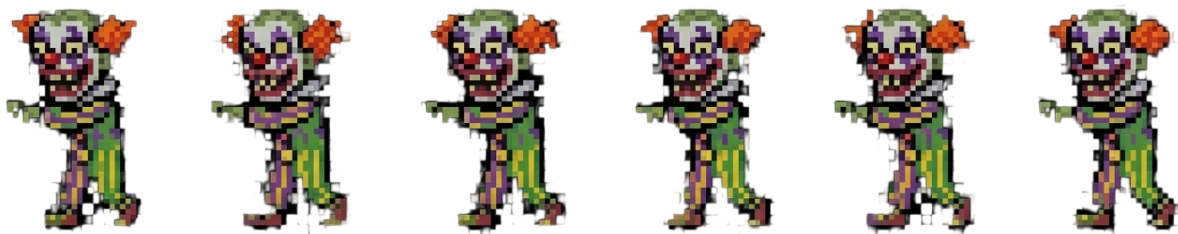
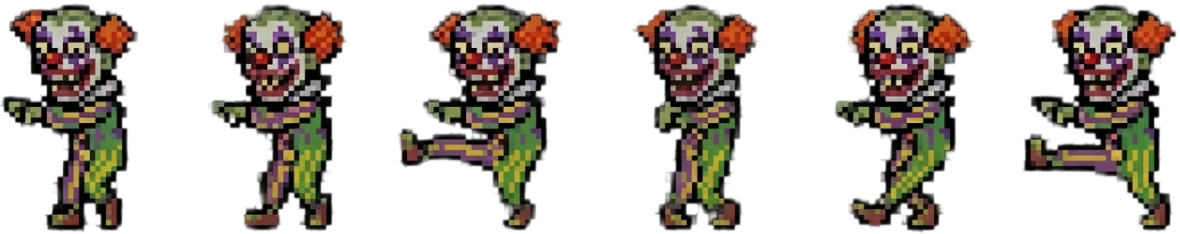
loading

diff --git a/game/index.html b/game/index.html
@@ -26,6 +26,72 @@
         overflow: hidden;
       }
 
+      #loading-screen {
+        position: fixed;
+        inset: 0;
+        z-index: 3000;
+        display: grid;
+        place-items: center;
+        background:
+          linear-gradient(
+            180deg,
+            rgba(8, 12, 22, 0.8) 0%,
+            rgba(10, 16, 27, 0.66) 52%,
+            rgba(7, 10, 18, 0.84) 100%
+          ),
+          url("assets/dashboard/background.jpg") center center / cover no-repeat;
+        opacity: 1;
+        visibility: visible;
+        transition: opacity 0.42s ease, visibility 0.42s ease;
+      }
+
+      #loading-screen.is-hidden {
+        opacity: 0;
+        visibility: hidden;
+        pointer-events: none;
+      }
+
+      .loading-panel {
+        width: min(78vw, 620px);
+        transform: translateY(-5vh);
+        display: grid;
+        justify-items: center;
+        row-gap: clamp(20px, 3.8vh, 36px);
+      }
+
+      .loading-logo {
+        width: clamp(220px, 42vw, 560px);
+        height: auto;
+        image-rendering: pixelated;
+        filter: drop-shadow(0 9px 20px rgba(0, 0, 0, 0.38));
+      }
+
+      .loading-spinner {
+        width: clamp(78px, 11vw, 128px);
+        height: auto;
+        image-rendering: pixelated;
+        animation: loading-spin 3.6s linear infinite;
+        transform-origin: 50% 50%;
+        will-change: transform;
+        filter: drop-shadow(0 6px 16px rgba(0, 0, 0, 0.4));
+      }
+
+      .loading-text {
+        width: clamp(132px, 21vw, 260px);
+        height: auto;
+        image-rendering: pixelated;
+        filter: drop-shadow(0 5px 14px rgba(0, 0, 0, 0.42));
+      }
+
+      @keyframes loading-spin {
+        from {
+          transform: rotate(0deg);
+        }
+        to {
+          transform: rotate(360deg);
+        }
+      }
+
       #game-root {
         border: 0;
         border-radius: 0;
@@ -82,7 +148,77 @@
     </style>
   </head>
   <body>
+    <div id="loading-screen" aria-live="polite" aria-label="Loading game">
+      <div class="loading-panel">
+        <img
+          class="loading-logo"
+          src="./assets/logo/logogame1.png"
+          alt="Army Vs Zombies"
+        />
+        <img
+          class="loading-spinner"
+          src="./assets/object/loading.png"
+          alt="Loading"
+        />
+        <img
+          class="loading-text"
+          src="./assets/object/text_loading.png"
+          alt="Loading Text"
+        />
+      </div>
+    </div>
+
     <div id="game-root"></div>
+
+    <script>
+      (() => {
+        const loadingScreen = document.getElementById("loading-screen");
+        const minVisibleMs = 480;
+        let visibleSince = performance.now();
+        let hideTimerId = null;
+
+        window.showGameLoading = () => {
+          if (!loadingScreen) {
+            return;
+          }
+
+          if (hideTimerId) {
+            window.clearTimeout(hideTimerId);
+            hideTimerId = null;
+          }
+
+          loadingScreen.classList.remove("is-hidden");
+          visibleSince = performance.now();
+        };
+
+        window.hideGameLoading = (force = false) => {
+          if (!loadingScreen) {
+            return;
+          }
+
+          if (hideTimerId) {
+            window.clearTimeout(hideTimerId);
+            hideTimerId = null;
+          }
+
+          const elapsed = performance.now() - visibleSince;
+          const delay = force ? 0 : Math.max(0, minVisibleMs - elapsed);
+
+          hideTimerId = window.setTimeout(() => {
+            loadingScreen.classList.add("is-hidden");
+            hideTimerId = null;
+          }, delay);
+        };
+
+        window.showGameLoading();
+
+        window.setTimeout(() => {
+          if (typeof window.hideGameLoading === "function") {
+            window.hideGameLoading(true);
+          }
+        }, 18000);
+      })();
+    </script>
 
     <script src="https://cdn.jsdelivr.net/npm/phaser@3.90.0/dist/phaser.min.js"></script>
     <script type="module" src="./main.js"></script>

diff --git a/index.html b/index.html
@@ -8,17 +8,96 @@
       type="image/png"
       href="./game/assets/logo/logo_favicon1.png"
     />
-    <title>Redirecting to Game...</title>
-    <meta http-equiv="refresh" content="0; url=./game/" />
+    <title>Army Vs Zombies</title>
+    <style>
+      * {
+        box-sizing: border-box;
+      }
+
+      body {
+        margin: 0;
+        min-height: 100dvh;
+        display: grid;
+        place-items: center;
+        overflow: hidden;
+        background:
+          linear-gradient(
+            180deg,
+            rgba(8, 12, 22, 0.84) 0%,
+            rgba(10, 16, 27, 0.68) 52%,
+            rgba(7, 10, 18, 0.86) 100%
+          ),
+          url("./game/assets/dashboard/background.jpg") center center / cover
+            no-repeat;
+      }
+
+      .loading-panel {
+        width: min(78vw, 620px);
+        transform: translateY(-5vh);
+        display: grid;
+        justify-items: center;
+        row-gap: clamp(20px, 3.8vh, 36px);
+      }
+
+      .loading-logo {
+        width: clamp(220px, 42vw, 560px);
+        height: auto;
+        image-rendering: pixelated;
+      }
+
+      .loading-spinner {
+        width: clamp(78px, 11vw, 128px);
+        height: auto;
+        image-rendering: pixelated;
+        animation: loading-spin 3.6s linear infinite;
+        transform-origin: 50% 50%;
+      }
+
+      .loading-text {
+        width: clamp(132px, 21vw, 260px);
+        height: auto;
+        image-rendering: pixelated;
+      }
+
+      @keyframes loading-spin {
+        from {
+          transform: rotate(0deg);
+        }
+        to {
+          transform: rotate(360deg);
+        }
+      }
+    </style>
     <script>
       // Keep query/hash when forwarding to the game entry page.
       const target = "./game/" + window.location.search + window.location.hash;
-      window.location.replace(target);
+      window.addEventListener("DOMContentLoaded", () => {
+        window.setTimeout(() => window.location.replace(target), 80);
+      });
     </script>
   </head>
   <body>
-    <p>
-      Redirecting to game... <a href="./game/">Click here</a> if not redirected.
-    </p>
+    <div class="loading-panel" aria-live="polite" aria-label="Loading site">
+      <img
+        class="loading-logo"
+        src="./game/assets/logo/logogame1.png"
+        alt="Army Vs Zombies"
+      />
+      <img
+        class="loading-spinner"
+        src="./game/assets/object/loading.png"
+        alt="Loading"
+      />
+      <img
+        class="loading-text"
+        src="./game/assets/object/text_loading.png"
+        alt="Loading Text"
+      />
+      <noscript>
+        <p style="color: #f9edd8; font-family: Verdana, sans-serif">
+          Redirecting to game... <a href="./game/">Click here</a>.
+        </p>
+      </noscript>
+    </div>
   </body>
 </html>

diff --git a/game/src/HomeScene.js b/game/src/HomeScene.js
@@ -10,6 +10,7 @@ export class HomeScene extends Phaser.Scene {
     this.overlayMode = null;
     this.difficultyButtonMap = {};
     this.logoTipOpen = false;
+    this.isStartingGame = false;
   }
 
   preload() {
@@ -85,7 +86,20 @@ export class HomeScene extends Phaser.Scene {
       .setInteractive({ useHandCursor: true });
     this.registerMainMenuButtonHover(playBtn);
     playBtn.on("pointerdown", () => {
-      this.scene.start("GameScene", { difficulty: this.selectedDifficulty });
+      if (this.isStartingGame) {
+        return;
+      }
+
+      this.isStartingGame = true;
+      playBtn.disableInteractive();
+
+      if (typeof window !== "undefined" && window.showGameLoading) {
+        window.showGameLoading();
+      }
+
+      this.time.delayedCall(140, () => {
+        this.scene.start("GameScene", { difficulty: this.selectedDifficulty });
+      });
     });
 
     const diffBtn = this.add
@@ -192,6 +206,10 @@ export class HomeScene extends Phaser.Scene {
     });
 
     this.updateDifficultyVisuals();
+
+    if (typeof window !== "undefined" && window.hideGameLoading) {
+      window.hideGameLoading();
+    }
   }
 
   getImageHeightByWidth(textureKey, targetWidth) {

diff --git a/game/src/GameScene.js b/game/src/GameScene.js
@@ -178,16 +178,16 @@ export class GameScene extends Phaser.Scene {
       "enemy-zombieboss1",
       "assets/enemy/zombieboss1_di_chuyen.png",
       {
-        frameWidth: 110,
-        frameHeight: 110,
+        frameWidth: 205,
+        frameHeight: 241,
       },
     );
     this.load.spritesheet(
       "enemy-zombieboss1-attack-sheet",
       "assets/enemy/zombieboss1_attack.png",
       {
-        frameWidth: 110,
-        frameHeight: 110,
+        frameWidth: 199,
+        frameHeight: 241,
       },
     );
 
@@ -336,6 +336,10 @@ export class GameScene extends Phaser.Scene {
     this.input.keyboard.on("keydown-E", this.handleMeteorHotkeyFeedback, this);
 
     this.scene.launch("UIScene");
+
+    if (typeof window !== "undefined" && window.hideGameLoading) {
+      window.hideGameLoading();
+    }
   }
 
   update(time, deltaMs) {
@@ -1697,7 +1701,7 @@ export class GameScene extends Phaser.Scene {
     ensureAnim("enemy-zombieboss1-move", {
       frames: this.anims.generateFrameNumbers("enemy-zombieboss1", {
         start: 0,
-        end: 1,
+        end: 3,
       }),
       frameRate: 4,
       repeat: -1,
@@ -1707,7 +1711,7 @@ export class GameScene extends Phaser.Scene {
         "enemy-zombieboss1-attack-sheet",
         {
           start: 0,
-          end: 1,
+          end: 3,
         },
       ),
       frameRate: 6,

diff --git a/game/src/entities.js b/game/src/entities.js
@@ -35,7 +35,7 @@ export class Enemy extends Phaser.GameObjects.Rectangle {
       normal: { width: 94, height: 115 },
       fast: { width: 94, height: 115 },
       tank: { width: 94, height: 115 },
-      boss: { width: 174, height: 174 },
+      boss: { width: 132, height: 155 },
     };
     const displaySize =
       displaySizeByType[enemyType] ?? displaySizeByType.normal;